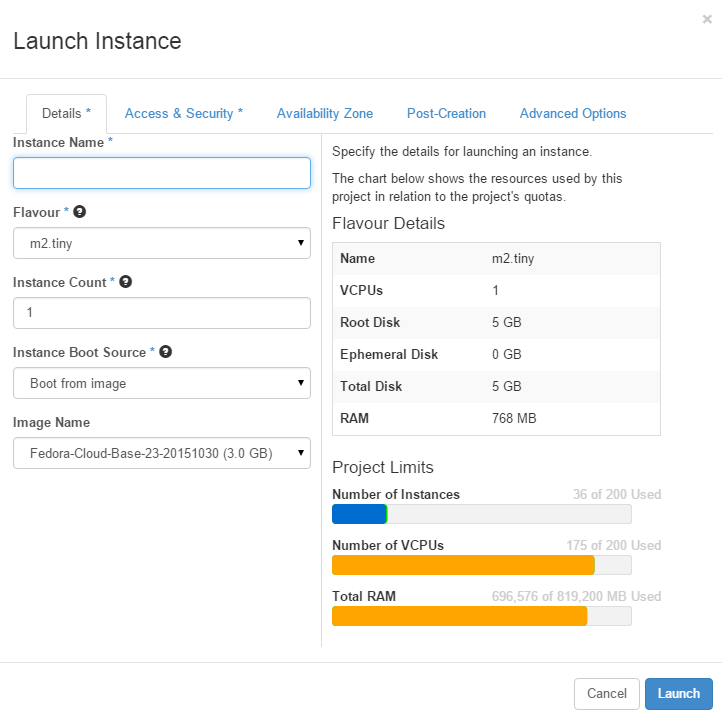
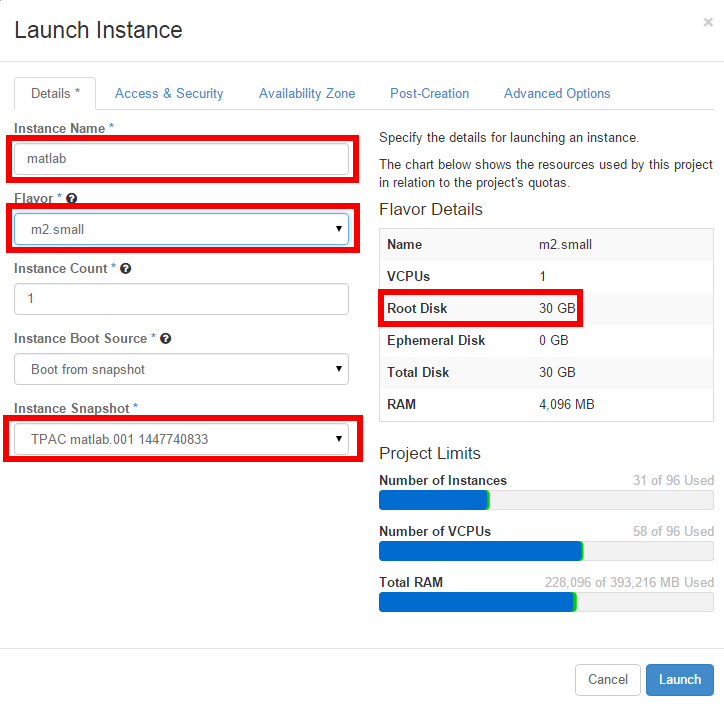
modified TPAC Matlab doc

diff --git a/articles/NeCTAR Documentation--DOCID16/Tools and Apps--DOCID24/TPAC Matlab with X2Go--DOCID91.md b/articles/NeCTAR Documentation--DOCID16/Tools and Apps--DOCID24/TPAC Matlab with X2Go--DOCID91.md
@@ -1,9 +1,27 @@
+
+- [Introduction](#intro)
+- [What you need](#need)
+- [Launch a Virtual Machine With TPAC Matlab image](#launch)
+- [Use Matlab in MATE Desktop](#desktop)
+- [What Next](#next)
+- [Security](#security)
+- [Upgrades and software installation](#upgrade)
+- [Contact](#contact)
+
+## Introduction <a name="intro"></a>
+
 TPAC provides an image in NeCTAR Cloud with Matlab 2013 installed. The image
 also includes X2Go server that allow users to run MATLAB in the remote desktop
 environment and access the Matlab from anywhere through the Internet. MATE desktop
 is installed and it provides GUI support for the Matlab and facilities better user
-experience that console access. The below lists what software packages have been
-pre-installed on the TPAC Matlab with X2Go image:
+experience that console access. For more information about how to use X2Go and
+MATE desktop, please refer to the article ‘TPAC Remote Desktop X2Go’.
+
+
+## Software and packages in the image <a name="image"></a>
+
+The below lists what software packages have been pre-installed on the TPAC Matlab
+with remote desktop image:
 
 - Ubuntu 14.04 (operating system)
 
@@ -13,66 +31,85 @@ pre-installed on the TPAC Matlab with X2Go image:
 
 - Matlab 2013
 
-For more information about how to use X2Go and MATE desktop, please refer to the
-article ‘TPAC Remote Desktop X2Go’.
+- Python 2.7.6 and Python 3.4
 
-## What you need
+- openjdk-7
+
+- nano
+
+- gcc 4.8, g++ 4.8
+
+- gimp
+
+
+## What you need <a name="need"></a>
 
 Aside from computer and network access, you will need to be an [Australian Access Federation][AAF]
 eligible researcher to access the NeCTAR cloud. You will also have to use key-pair
 security for your [virtual machine authentication][nectar-authentication].
 Upon first NeCTAR cloud use, AAF eligible researchers are issued with a limited
-[trial allocation][nectar-allocation] that will do just fine for trialling the
+[trial allocation][nectar-allocation] that will do just fine for trying the
 TPAC RStudio in the research cloud. If you need more resources, such as CPU, data
 storage space, or you need it for longer than your trial allocation, then you can
 request a [NeCTAR allocation][nectar-request].
 
 
-## Launch a Virtual Machine With TPAC Matlab image
+## Launch a Virtual Machine With TPAC Matlab image <a name="launch"></a>
 
 The below provides instruction about how to launch a virtual machine in NecTAR
 using TPAC pre-build image with Matlab, X2Go and MATE.
 
-- Login to NeCTAR [Dashboard][dashboard] with your AAF credentials. After login,
- you should see the below screenshot:
+- Login to NeCTAR [Dashboard][dashboard] with your AAF credentials. Select your
+ project name, click the ‘Images’ and then click tab ‘Public’. You should see the
+ below screenshot:
  
  ![`snapshot1`](images/tpac-matlab-1.png)
 
-- Select your project name, click the ‘Images’ and then click tab ‘Public’. It will
- show all available public images. Scroll down the list and find the image with name
- 'TPAC matlab.001 1447740833' and click the ‘Launch’ button. You should see a pop
+-  After clicking the tab 'Public', You will see all available public images on
+ screen. Scroll down the list and find the image with name 'TPAC matlab.001 1447740833'
+ and click the ‘Launch’ button. You should see a pop
  up window like below:
 
-![`snapshot2`](images/tpac-matlab-2.png)
+ ![`snapshot2`](images/tpac-matlab-2.png)
 
-- In this pop up window, provide some information for the virtual machine,
- such as name, key pair, security groups, flavour and availability zone. Please
- note, the desktop application such as MATE requires larger root disk size, so it
- is prefered to use flavour m2.small, m2.medium, m2.large and m2.xlarge as these
- flavours have 30G root disk. You also need to open port 22, as X2Go uses it for
- communication between X2Go Server and Client. Besides, as the license requirement,
- the availability zone is restricted to Tasmania Zone. So please make sure you launch
- a virtual machine in the Tasmania Zone otherwise the Matlab won’t work properly.
- For details of how to launch a virtual machine in NeCTAR Cloud, please refer to this [link][nectar-instance]
+- In this pop up window, provide some information for the virtual machine, such
+ as name and flavour. Please  note, the desktop application such as MATE requires
+ larger root disk size, so it is prefered to use flavour m2.small, m2.medium,
+ m2.large and m2.xlarge as these flavours have 30G root disk.
+
+- Click 'Access & Security' tab. In this pop up window, provide your key and
+ security group. You also need to open port 22, as X2Go uses it for communication
+ between X2Go Server and Client. So make sure you tick a security group with port
+ 22 open. See below screenshot.
+ 
+ ![`snapshot3`](images/tpac-matlab-3.png)
+
+- Click 'Availability Zone' tab. As the license requirement, the availability zone
+ is restricted to Tasmania Zone. So please make sure you launch  a virtual machine
+ in the Tasmania Zone. Otherwise the Matlab won’t work properly. See below screenshot:
+ 
+ ![`snapshot4`](images/tpac-matlab-4.png)
 
 - After clicking the ‘Launch’ button, the virtual machine will be ready in a few
  minutes. Please write down the IP address of the newly created virtual machine as
  it will be used later in the X2Go Client to connect to the virtual machine.
 
+For details of how to launch a virtual machine in NeCTAR Cloud, please refer to this [link][nectar-instance].
 
 Note, TPAC Matlab image only works if the availability zone of the virtual machine
-is Tasmania Zone as the Matlab uses UTAS Site License. The Matlab will not run if
-the availability zone is not in Tasmania.
+is Tasmania Zone as the Matlab uses University of Tasmania Site License. The
+Matlab will not run if the availability zone is not in Tasmania.
 
 
-## Use Matlab in MATE Desktop
+## Use Matlab in MATE Desktop <a name="desktop"></a>
 
-To use the Matlab in the launched virtual machine, you need to use the X20Go Client
-to connect to it. 
+To use the Matlab in the launched virtual machine, you need to use the X20Go
+Client to connect to it. 
 
 Configure the X20Go client with the information you obtained from the launched
 virtual machine, such as IP address, the default user account, in this case it
-should be Ubuntu and the private key used  for authentication.
+should be Ubuntu and the private key used for authentication. Please refer to
+TPAC Remote Desktop User Guide for more information.
 
 So the simple steps are:
 
@@ -80,22 +117,23 @@ So the simple steps are:
 
 - Double Click the session and get connection to the virtual machine
 
-- If everything goes well, you should see the MATE desktop
+- If everything goes well, you should see the MATE desktop. See the below screenshot:
+
+ ![`snapshot5`](images/tpac-matlab-5.png)
 
 - Once you are in the MATE desktop, click ‘Application’ menu on the top left corner
- and move mouse cursor over the ‘System Tools’
+ and move mouse cursor over the ‘Programming’ menu
 
-- A submenu will come out and move mouse over ‘Mate Terminal’ and click
-
-- A terminal window will appear and type ‘matlab’ in the terminal window
+- A submenu will come out and move mouse over ‘Matlab r2013b’ and click
 
 - The Matlab main window should appear
+
 
 For details about how to connect to X2Go Server using X2Go client, please refer
 to the 'TPAC Remote Desktop X2Go'. 
 
 
-## What Next
+## What Next <a name="next"></a>
 
 If you want to use your Matlab virtual machine as a collaboration space, you will
 need to do some user management. For this you can refer to “Add Accounts on The
@@ -105,8 +143,25 @@ collaborators will need to install their own X2Go client, refer to the same docu
 You can also share data between your local machine with X2Go Client installed and
 Matlab virtual machine with X2Go Server installed. You can find how from this document.
 
+## Security <a name="security"></a>
 
-## Contact
+By default, there is only one default user 'ubuntu' and it uses key based
+authentication. If you want to create more users to use the virtual machine, please
+use key based authentication rather than password based authentication. For a quick
+security check list, please refer to [here][check]. 
+
+
+## Upgrades and software installation <a name="upgrade"></a>
+
+User initialed upgrades for Matlab and Ubuntu are not encouraged. TPAC will
+publish upgraded version of Matlab and Ubuntu in new image. Please contact TPAC help
+desk at helpdesk@tpac.org.au to see whether any latest version of Matlab and Ubuntu
+is available. Other software installation and upgrade can be done via the common
+installation tools such as apt-get and appititude. Packages can be also installed
+through the Mate Desktop environment. Please refer to [InstallingSoftware][ubuntu]
+and [Mate][mate].
+
+## Contact <a name="contact"></a>
 
 If you have problems with TPAC Matlab image and using it, please contact TPAC help
 desk via helpdesk@tpac.org.au, or any help desks from your local Eresearch service
@@ -118,3 +173,6 @@ providers.
 [nectar-request]: https://support.nectar.org.au/support/solutions/articles/6000068044-managing-an-allocation
 [dashboard]: https://dashboard.rc.nectar.org.au/
 [nectar-instance]: https://support.nectar.org.au/support/solutions/articles/6000055376-launching-virtual-machines
+[ubuntu]: https://help.ubuntu.com/community/InstallingSoftware
+[mate]: http://mate-desktop.org/
+[check]: https://support.nectar.org.au/support/solutions/articles/6000091906-security-compromise-checklist
